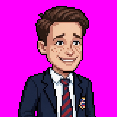
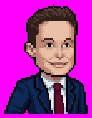
Use Elon-like Pretoria school sprite and force young-SA era in Pretoria.

diff --git a/Assets/Scripts/Core/Content/ElonEraResolver.cs b/Assets/Scripts/Core/Content/ElonEraResolver.cs
@@ -39,15 +39,60 @@ namespace ElonLifeSim.Core.Content
         public static string EraFolderForLocation(string locationId, string actId = null)
         {
             _ = actId; // reserved: act progress may override later
-            if (locationId == PrototypeContent.LocationPretoria)
+            if (IsPretoria(locationId))
                 return EraYoungSa;
-            if (locationId == PrototypeContent.LocationToronto)
+            if (IsToronto(locationId))
                 return EraYoungAdult90s;
-            if (locationId == PrototypeContent.LocationPaloAlto)
+            if (IsPaloAlto(locationId))
                 return EraEarly2000s;
-            if (locationId == "mars" || locationId == EraMars)
+            if (IsMars(locationId))
                 return EraMars;
-            return EraModern;
+            // Empty/unknown stays Pretoria — never fall through to modern on Act 1.
+            return EraYoungSa;
+        }
+
+        public static bool IsPretoria(string locationId)
+        {
+            if (string.IsNullOrEmpty(locationId))
+                return true;
+            if (locationId == PrototypeContent.LocationPretoria)
+                return true;
+            return ContainsIgnoreCase(locationId, "pretoria")
+                   || ContainsIgnoreCase(locationId, "southafrica")
+                   || ContainsIgnoreCase(locationId, "south_africa");
+        }
+
+        public static bool IsToronto(string locationId)
+        {
+            if (string.IsNullOrEmpty(locationId))
+                return false;
+            if (locationId == PrototypeContent.LocationToronto)
+                return true;
+            return ContainsIgnoreCase(locationId, "toronto")
+                   || ContainsIgnoreCase(locationId, "canada");
+        }
+
+        public static bool IsPaloAlto(string locationId)
+        {
+            if (string.IsNullOrEmpty(locationId))
+                return false;
+            if (locationId == PrototypeContent.LocationPaloAlto)
+                return true;
+            return ContainsIgnoreCase(locationId, "palo")
+                   || ContainsIgnoreCase(locationId, "silicon");
+        }
+
+        public static bool IsMars(string locationId)
+        {
+            if (string.IsNullOrEmpty(locationId))
+                return false;
+            return locationId == "mars" || locationId == EraMars
+                   || ContainsIgnoreCase(locationId, "mars");
+        }
+
+        private static bool ContainsIgnoreCase(string haystack, string needle)
+        {
+            return haystack.IndexOf(needle, System.StringComparison.OrdinalIgnoreCase) >= 0;
         }
 
         public static string IdleResourceKey(string locationId, string actId = null)

diff --git a/Core.Tests/Program.cs b/Core.Tests/Program.cs
@@ -648,6 +648,12 @@ namespace ElonLifeSim.Core.Tests
                    == "Characters/Elon/02_young_adult_90s/elon_young_adult_idle", "toronto idle key");
             Assert(ElonEraResolver.EraFolderForLocation(PrototypeContent.LocationPretoria, "act8_mars") == pret,
                 "actId must not override Pretoria");
+            Assert(ElonEraResolver.EraFolderForLocation("SouthAfrica_Pretoria") == "01_young_sa",
+                "scene name Pretoria is young SA");
+            Assert(ElonEraResolver.EraFolderForLocation(null) == "01_young_sa",
+                "empty location stays Pretoria, not modern");
+            Assert(ElonEraResolver.EraFolderForLocation("unknown_place") == "01_young_sa",
+                "unknown stays Pretoria during Act 1 default");
         }
 
         private static void TestElonEraSwapOnTravelLocationChanged()

diff --git a/Assets/Scripts/Unity/Bootstrap/GameplaySceneSetup.cs b/Assets/Scripts/Unity/Bootstrap/GameplaySceneSetup.cs
@@ -94,7 +94,11 @@ namespace ElonLifeSim.Unity.Bootstrap
 
         private void SetupPlayer()
         {
-            ElonAppearanceApplier.Apply(locationId);
+            var loc = locationId;
+            var sceneName = UnityEngine.SceneManagement.SceneManager.GetActiveScene().name;
+            if (ElonEraResolver.IsPretoria(loc) || ElonEraResolver.IsPretoria(sceneName))
+                loc = PrototypeContent.LocationPretoria;
+            ElonAppearanceApplier.Apply(loc);
         }
 
         private void SetupControllers()

diff --git a/Assets/Scripts/Unity/Controllers/LocationSceneController.cs b/Assets/Scripts/Unity/Controllers/LocationSceneController.cs
@@ -30,7 +30,7 @@ namespace ElonLifeSim.Unity.Controllers
         private void Start()
         {
             var session = GameBootstrap.RequireSession();
-            if (session == null)
+            if (session == null || !session.HasStarted)
             {
                 var bootstrap = GameBootstrap.Instance;
                 if (bootstrap != null)
